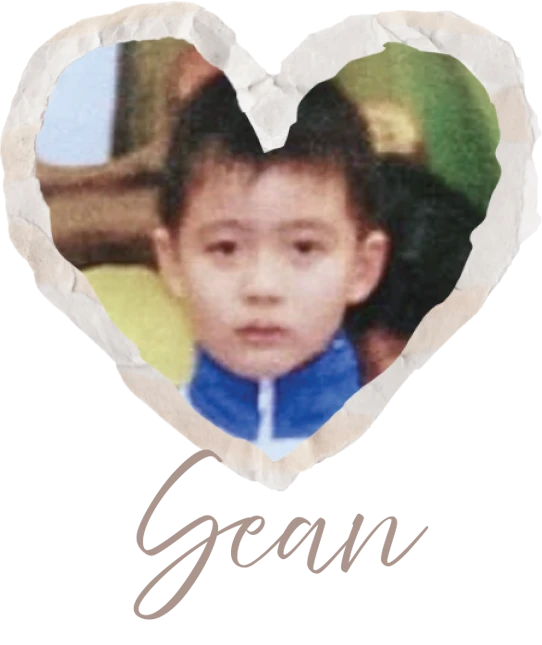
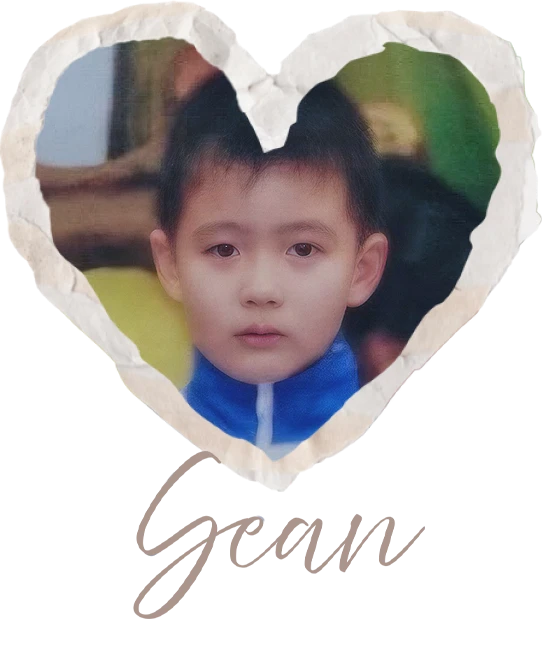
update

diff --git a/index.html b/index.html
@@ -220,7 +220,7 @@
                         <div class="item">
                             <img src="img/9.webp" alt="">
                             <p>氣溫10度拍的婚紗<br>
-                                婚姻迎來的第一個考驗</p>
+                                這應該是婚姻迎來的第一個考驗</p>
                             <p>還好10年的感情沒有那麼容易散啦</p>
                         </div>
                     </div>
@@ -312,7 +312,6 @@
                                         <option>男方親戚</option>
                                         <option>男方同學</option>
                                         <option>男方朋友</option>
-                                        <option>洗破皮</option>
                                         <option>小貓球隊</option>
                                         <option>女方親戚</option>
                                         <option>女方同學</option>
@@ -535,7 +534,6 @@
     </script>
     <script>
         window.addEventListener('load', function () {
-
             const btn = document.getElementById('enterBtn');
             const btnText = btn.querySelector('.btn-text');
             const overlay = document.getElementById('introOverlay');
@@ -568,6 +566,7 @@
 
         // 點擊後關閉遮罩
         document.getElementById('enterBtn').addEventListener('click', function () {
+            window.scrollTo(0, 0);
 
             const overlay = document.getElementById('introOverlay');
 
